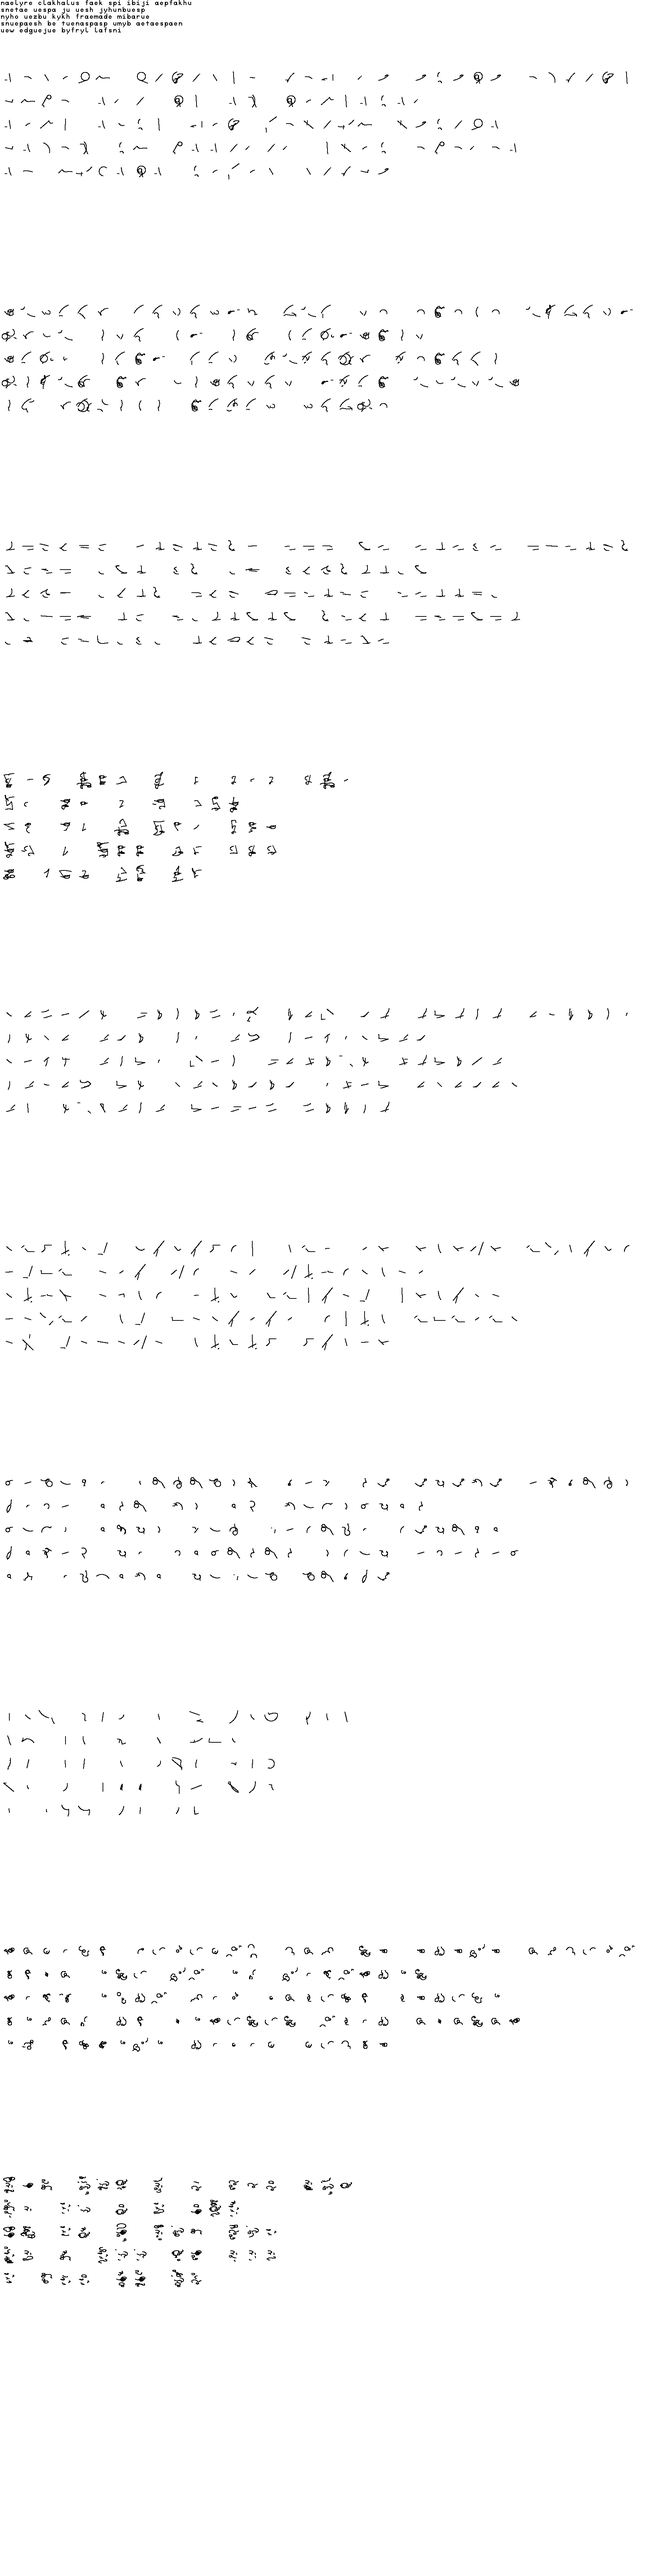
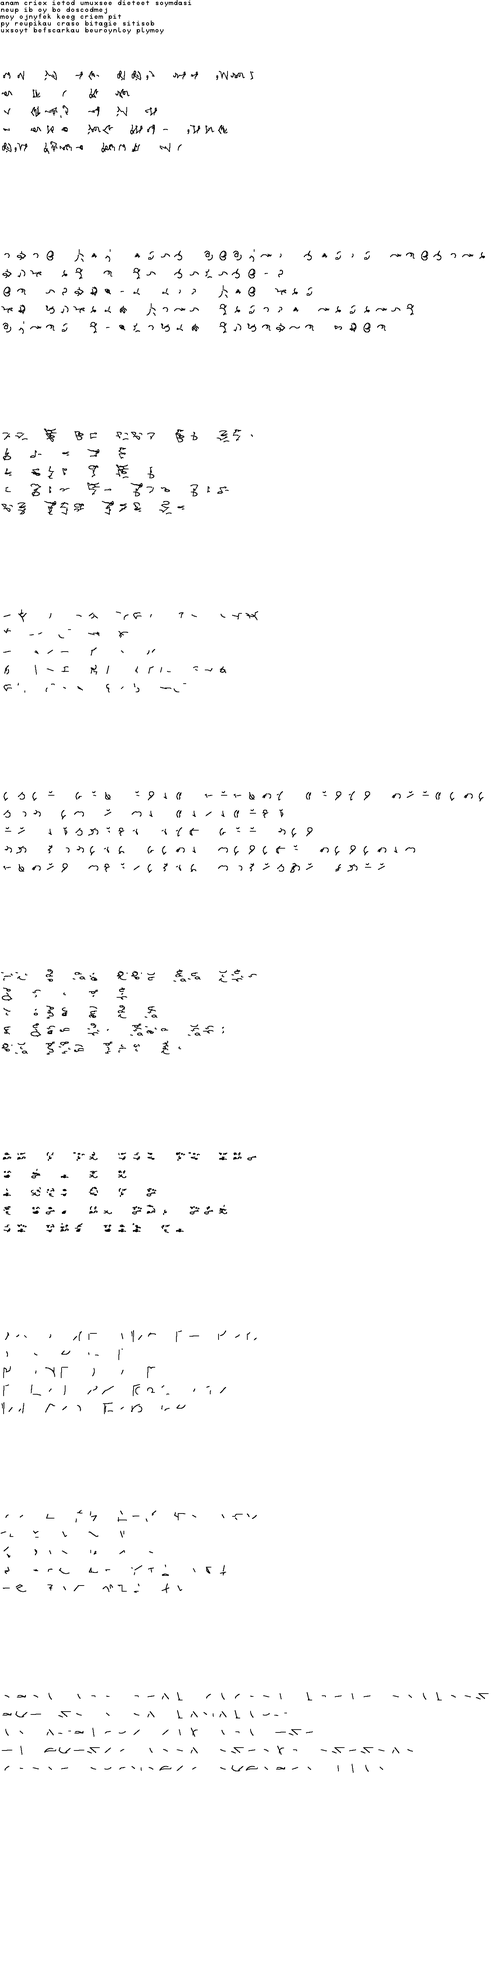
Optimised common element amount

diff --git a/src/com/redsquare/citizen/systems/language/WritingSystem.java b/src/com/redsquare/citizen/systems/language/WritingSystem.java
@@ -55,7 +55,7 @@ public class WritingSystem {
     else if (prob < 2/3f) compSyllabaryConfig = CompSyllabaryConfig.PVS_LTR;
     else compSyllabaryConfig = CompSyllabaryConfig.PVS_TTB;
 
-    int amountCommonElements = Randoms.bounded(2, 5);
+    int amountCommonElements = Randoms.bounded(4, 7);
     commonElements = new HashSet<>();
 
     while (commonElements.size() < amountCommonElements) {

diff --git a/tests/com/redsquare/citizen/systems/language/WritingSystemTests.java b/tests/com/redsquare/citizen/systems/language/WritingSystemTests.java
@@ -40,7 +40,7 @@ public class WritingSystemTests {
     BufferedImage[] wsis = new BufferedImage[wss.length];
 
     for (int i = 0; i < 10; i++) {
-      wsis[i] = wss[i].draw(testText.toString().split("\n"), 52, false);
+      wsis[i] = wss[i].draw(testText.toString().split("\n"), 40, false);
     }
 
     BufferedImage fi =
